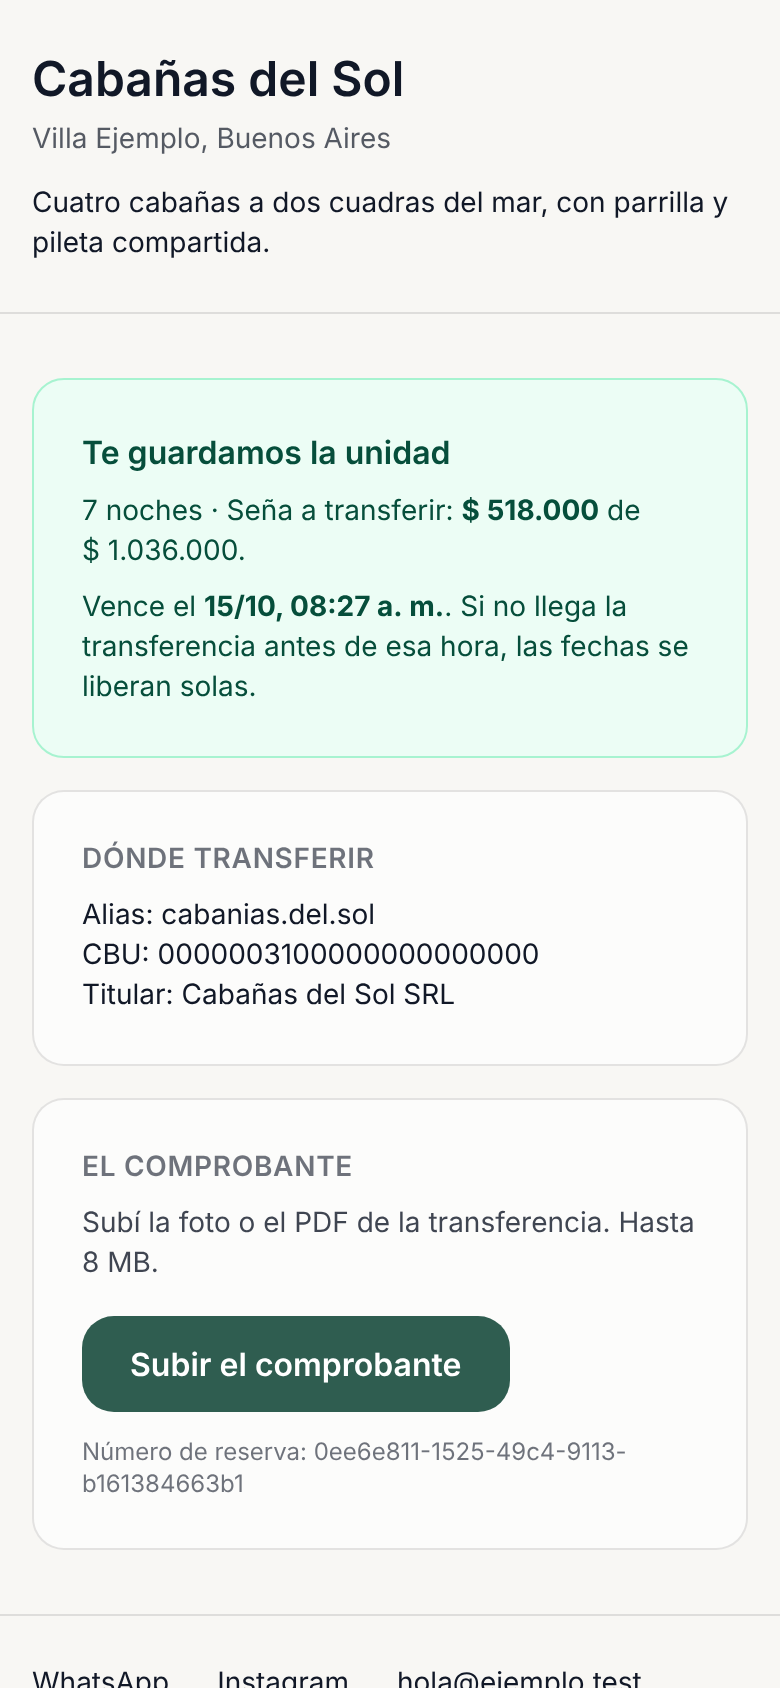
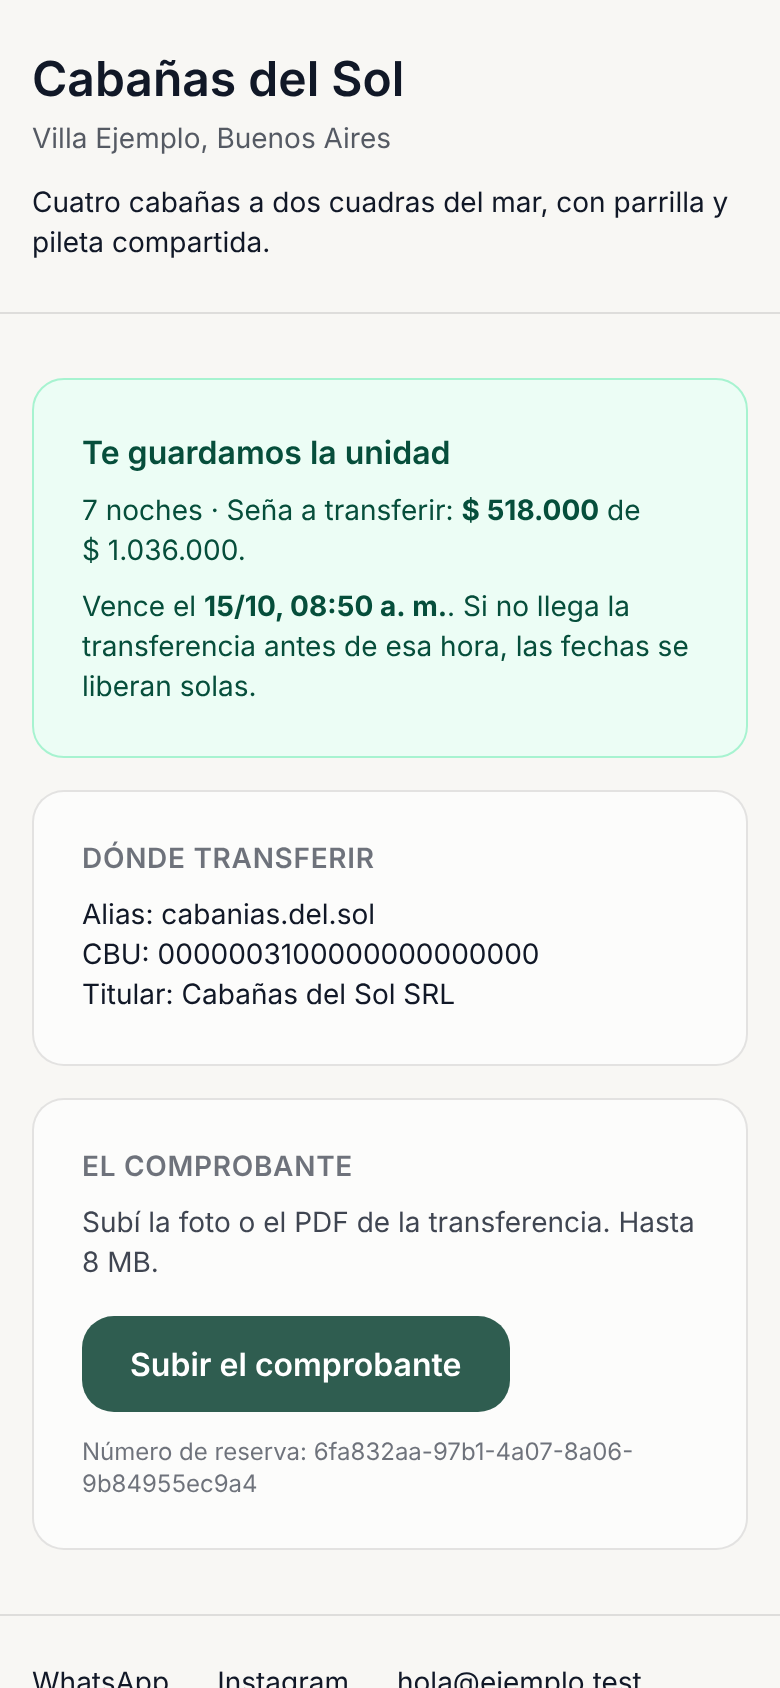
Que una captura no publique los datos de otra persona (#7)
Poder apuntar las baterías a producción destapó enseguida el problema que ese
arreglo creaba: la batería de navegador limpiaba su reserva sólo al EMPEZAR.
Contra una base de juguete alcanza; contra producción la reserva queda viva en
el panel del dueño hasta la próxima corrida, y lo que pase en el medio la ve.

Pasó lo peor que podía pasar con eso: `npm run capturas` corrió después y sacó
la foto del panel con «Prueba de Navegador» adentro —nombre, mail y teléfono—,
lista para publicarse en la página de venta.

- La batería limpia también al terminar, y también cuando se corta a la mitad.
- Y el arreglo de fondo, porque que la batería limpie no alcanza: antes de
  disparar la foto del panel, el script de capturas le pregunta a la base si
  hay alguna seña en espera que no sea la del huésped de las capturas, y CORTA
  si la hay, nombrando cuál. No avisa: corta. Una captura con datos de otra
  persona no se arregla mirando la consola después, se publica.
- Se le pregunta a la base y no al texto de la pantalla: leer la pantalla
  pedía adivinar con expresiones regulares cuál renglón es un nombre, y eso se
  rompe el día que cambie el orden de los renglones.

Probado sembrando una reserva ajena a propósito: el script se negó a sacar la
foto, nombró al intruso y salió con código 1. Las capturas se rehicieron con el
demo limpio.

Claude-Session: https://claude.ai/code/session_01PeX3A5kHMPng74jQYSqc5q

diff --git a/src/components/comercial/capturas.generado.ts b/src/components/comercial/capturas.generado.ts
@@ -17,34 +17,34 @@ export const CAPTURAS = {
     ancho: 780,
     alto: 1688,
     que: "El calendario, las noches elegidas y la seña",
-    de: "http://cabanias-del-sol.alojaos.test:3000/",
+    de: "https://cabanias-del-sol.alojaos.shop/",
   },
   'huesped-transferir': {
     archivo: '/capturas/huesped-transferir.png',
     ancho: 780,
     alto: 1688,
     que: "El plazo de la seña, el alias y el CBU para transferir",
-    de: "http://cabanias-del-sol.alojaos.test:3000/",
+    de: "https://cabanias-del-sol.alojaos.shop/",
   },
   'panel-senas': {
     archivo: '/capturas/panel-senas.png',
     ancho: 1664,
     alto: 488,
     que: "Las señas esperando, con su comprobante y su plazo",
-    de: "http://alojaos.test:3000/panel",
+    de: "https://alojaos.shop/panel",
   },
   'panel-precios': {
     archivo: '/capturas/panel-precios.png',
     ancho: 1664,
     alto: 668,
     que: "Los precios por temporada, cargados desde el panel",
-    de: "http://alojaos.test:3000/panel",
+    de: "https://alojaos.shop/panel",
   },
   'panel-fechas': {
     archivo: '/capturas/panel-fechas.png',
     ancho: 1664,
     alto: 264,
     que: "Las fechas cerradas a mano, y el aviso de qué falta",
-    de: "http://alojaos.test:3000/panel",
+    de: "https://alojaos.shop/panel",
   },
 } as const;

diff --git a/AUDITORIA.md b/AUDITORIA.md
@@ -313,3 +313,30 @@ siempre. Ahora, si es root, levanta el servidor con el usuario `postgres`. 330 d
 pública: `crear_reserva` → 404 (PostgREST ya no la expone), `datos_para_transferir`
 por slug → 404 (no existe más esa firma), `exportar_complejo` → 401 permiso
 denegado.
+
+---
+
+## Tercera pasada: lo que apareció por poder correr los arneses en producción
+
+Arreglar el primer punto de la segunda pasada —poder apuntar las baterías al
+vivo— destapó enseguida el problema que ese arreglo creaba.
+
+**6. La batería de navegador dejaba su reserva viva en producción.** ✅
+arreglado. Limpiaba sólo al empezar, que alcanzaba mientras corría contra una
+base de juguete. Contra producción no: la reserva queda en el panel del dueño
+hasta la próxima corrida. Y pasó lo peor que podía pasar con eso: `npm run
+capturas` corrió después y sacó la foto del panel con **«Prueba de Navegador»
+adentro, con su mail y su teléfono**, lista para publicarse en la página de
+venta. Ahora limpia también al terminar, y también cuando se corta a la mitad.
+
+**7. Y el arreglo de fondo: el script de capturas no miraba lo que fotografiaba.**
+✅ arreglado. Que la batería limpie no alcanza —cualquier cosa puede dejar una
+reserva en el demo—. Antes de disparar la foto del panel, el script le pregunta a
+la base si hay alguna seña en espera que no sea la del huésped de las capturas, y
+**corta** si la hay, nombrando cuál. No avisa: corta. Una captura con datos de
+otra persona no se arregla mirando la consola después, se publica.
+
+Probado sembrando una reserva ajena a propósito: el script se negó a sacar la
+foto, nombró al intruso y salió con código 1.
+
+Las capturas se rehicieron con el demo limpio.
